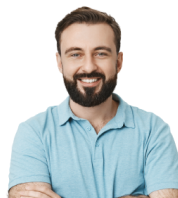
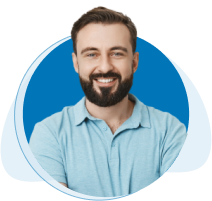
team update

diff --git a/index.html b/index.html
@@ -31,7 +31,7 @@
           <ul class="cs_top_header_links cs_flex">
             <li><a href="#" class="cs_block"><i class="fa-brands fa-facebook-f"></i></a></li>
             <li><a href="#" class="cs_block"><i class="fa-brands fa-twitter"></i></a></li>
-            <li><a href="#" class="cs_block"><i class="fa-brands fa-pinterecs_p"></i></a></li>
+            <li><a href="#" class="cs_block"><i class="fa-brands fa-pinterest-p"></i></a></li>
             <li><a href="#" class="cs_block"><i class="fa-brands fa-instagram"></i></a></li>
           </ul>
         </div>
@@ -450,7 +450,7 @@
         </div>
       </div>
       <div class="container">
-        <div class="cs_slider cs_style1">
+        <div class="cs_slide cs_style1">
           <div class="slick-container">
             <div class="slick-wrapper">
               <div class="slick-slide-in"><!-- slide in -->
@@ -594,7 +594,9 @@
             <div class="slick-wrapper">
               <div class="slick-slide-in"><!-- slide in -->
                 <div class="cs_team cs_style1">
-                  <div class="imgbox"></div>
+                  <div class="cs_team_photo cs_center">
+                    <img src="/assets/img/team/team1.png" alt="">
+                  </div>
                   <div class="cs_team_details cs_overflow_hidden">
                     <div class="cs_team_info">
                       <h5 class="cs_team_name cs_font_18 cs_font_md_16 cs_medium cs_mp0">Charles R. Lucas</h5>
@@ -611,7 +613,7 @@
                       </a>
                       <a href="#"
                         class="cs_team_social_link cs_center cs_primary_color cs_white_color_hover cs_accent_bg_hover">
-                        <i class="fa-brands fa-pinterecs_p"></i>
+                        <i class="fa-brands fa-pinterest-p"></i>
                       </a>
                       <a href="#"
                         class="cs_team_social_link cs_center cs_primary_color cs_white_color_hover cs_accent_bg_hover">
@@ -624,11 +626,13 @@
               </div><!-- .slick-slide-in -->
               <div class="slick-slide-in"><!-- slide in -->
                 <div class="cs_team cs_style1">
-                  <div class="imgbox"></div>
+                   <div class="cs_team_photo cs_center">
+                    <img src="/assets/img/team/team4.png" alt="">
+                  </div>
                   <div class="cs_team_details cs_overflow_hidden">
                     <div class="cs_team_info">
-                      <h5 class="cs_team_name cs_font_18 cs_font_md_16 cs_medium cs_mp0">Charles R. Lucas</h5>
-                      <div class="cs_team_designation">Team Lead</div>
+                      <h5 class="cs_team_name cs_font_18 cs_font_md_16 cs_medium cs_mp0">Brian A. Gordon</h5>
+                      <div class="cs_team_designation">Marketing Manager</div>
                     </div>
                     <div class="cs_team_links">
                       <a href="#"
@@ -641,7 +645,7 @@
                       </a>
                       <a href="#"
                         class="cs_team_social_link cs_center cs_primary_color cs_white_color_hover cs_accent_bg_hover">
-                        <i class="fa-brands fa-pinterecs_p"></i>
+                        <i class="fa-brands fa-pinterest-p"></i>
                       </a>
                       <a href="#"
                         class="cs_team_social_link cs_center cs_primary_color cs_white_color_hover cs_accent_bg_hover">
@@ -654,7 +658,41 @@
               </div><!-- .slick-slide-in -->
               <div class="slick-slide-in"><!-- slide in -->
                 <div class="cs_team cs_style1">
-                  <div class="imgbox"></div>
+                   <div class="cs_team_photo cs_center">
+                    <img src="/assets/img/team/team2.png" alt="">
+                  </div>
+                  <div class="cs_team_details cs_overflow_hidden">
+                    <div class="cs_team_info">
+                      <h5 class="cs_team_name cs_font_18 cs_font_md_16 cs_medium cs_mp0">Steven C. McQueen</h5>
+                      <div class="cs_team_designation">Accounce</div>
+                    </div>
+                    <div class="cs_team_links">
+                      <a href="#"
+                        class="cs_team_social_link cs_center cs_primary_color cs_white_color_hover cs_accent_bg_hover">
+                        <i class="fa-brands fa-facebook-f"></i>
+                      </a>
+                      <a href="#"
+                        class="cs_team_social_link cs_center cs_primary_color cs_white_color_hover cs_accent_bg_hover">
+                        <i class="fa-brands fa-twitter"></i>
+                      </a>
+                      <a href="#"
+                        class="cs_team_social_link cs_center cs_primary_color cs_white_color_hover cs_accent_bg_hover">
+                        <i class="fa-brands fa-pinterest-p"></i>
+                      </a>
+                      <a href="#"
+                        class="cs_team_social_link cs_center cs_primary_color cs_white_color_hover cs_accent_bg_hover">
+                        <i class="fa-brands fa-instagram"></i>
+                      </a>
+                    </div>
+                  </div>
+                </div>
+                <div class="cs_height_lg_b20 cs_height_b30"></div>
+              </div><!-- .slick-slide-in -->
+              <div class="slick-slide-in"><!-- slide in -->
+                <div class="cs_team cs_style1">
+                   <div class="cs_team_photo cs_center">
+                    <img src="/assets/img/team/team3.png" alt="">
+                  </div>
                   <div class="cs_team_details cs_overflow_hidden">
                     <div class="cs_team_info">
                       <h5 class="cs_team_name cs_font_18 cs_font_md_16 cs_medium cs_mp0">Charles R. Lucas</h5>
@@ -671,7 +709,7 @@
                       </a>
                       <a href="#"
                         class="cs_team_social_link cs_center cs_primary_color cs_white_color_hover cs_accent_bg_hover">
-                        <i class="fa-brands fa-pinterecs_p"></i>
+                        <i class="fa-brands fa-pinterest-p"></i>
                       </a>
                       <a href="#"
                         class="cs_team_social_link cs_center cs_primary_color cs_white_color_hover cs_accent_bg_hover">

diff --git a/assets/css/style.css b/assets/css/style.css
@@ -1750,8 +1750,13 @@ a {
   -webkit-box-shadow: 0px 0px 10px 1px rgba(0, 117, 183, 0.1);
           box-shadow: 0px 0px 10px 1px rgba(0, 117, 183, 0.1);
   border-radius: 10px;
-  padding: 30px;
   padding-bottom: 0px;
+}
+
+.cs_team.cs_style1 .cs_team_photo {
+  padding: 30px;
+  padding-bottom: 10px;
+  margin-bottom: -10px;
 }
 
 .cs_team.cs_style1 .cs_team_details {

diff --git a/assets/sass/elements/_team.scss b/assets/sass/elements/_team.scss
@@ -1,8 +1,12 @@
 .cs_team.cs_style1 {
   box-shadow: 0px 0px 10px 1px rgba(0, 117, 183, 0.1);
   border-radius: 10px;
-  padding: 30px;
   padding-bottom: 0px;
+  .cs_team_photo{
+    padding: 30px;
+    padding-bottom: 10px;
+    margin-bottom: -10px;
+  }
   .cs_team_details{
     height: 95px;
     position: relative;
